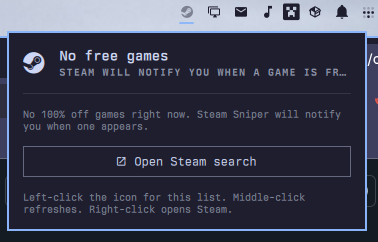
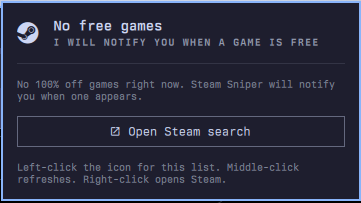
Update empty-state copy and preview
Say I will notify you, not Steam, and refresh the listing screenshot.

diff --git a/Model.js b/Model.js
@@ -271,7 +271,7 @@ function statusTitle(games, busy, error) {
 function statusDetail(games, busy, error, freshness) {
   if (busy && (!games || games.length === 0)) return "Looking for 100% off Steam games"
   if (error && (!games || games.length === 0)) return String(error)
-  if (!games || games.length === 0) return "Steam will notify you when a game is free"
+  if (!games || games.length === 0) return "I will notify you when a game is free"
   return freshness || ""
 }
 
